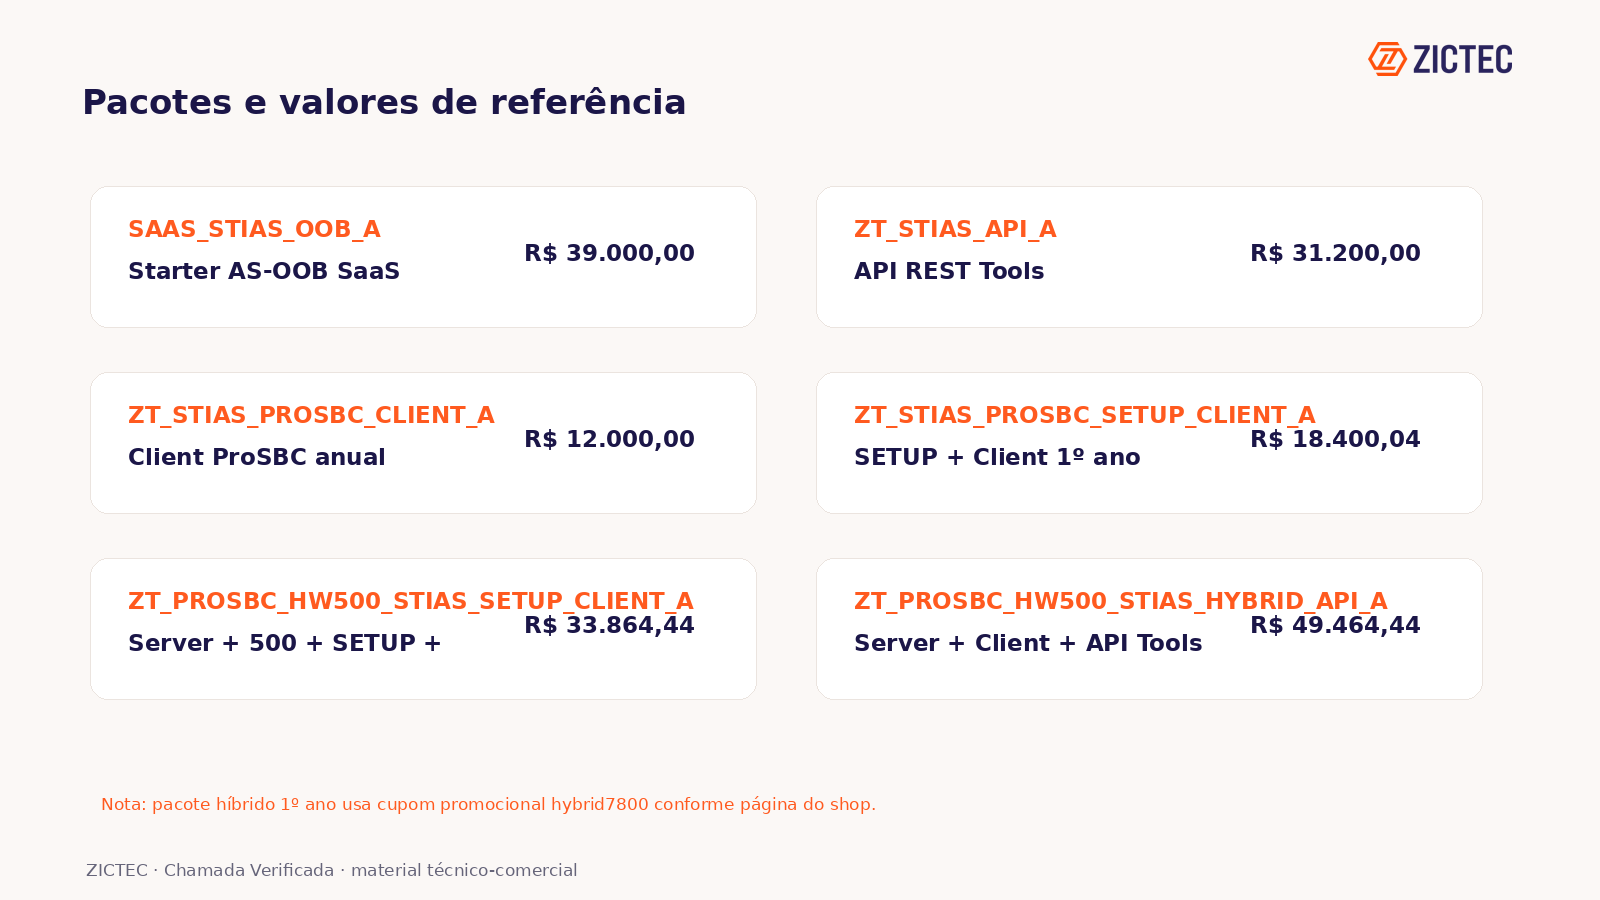
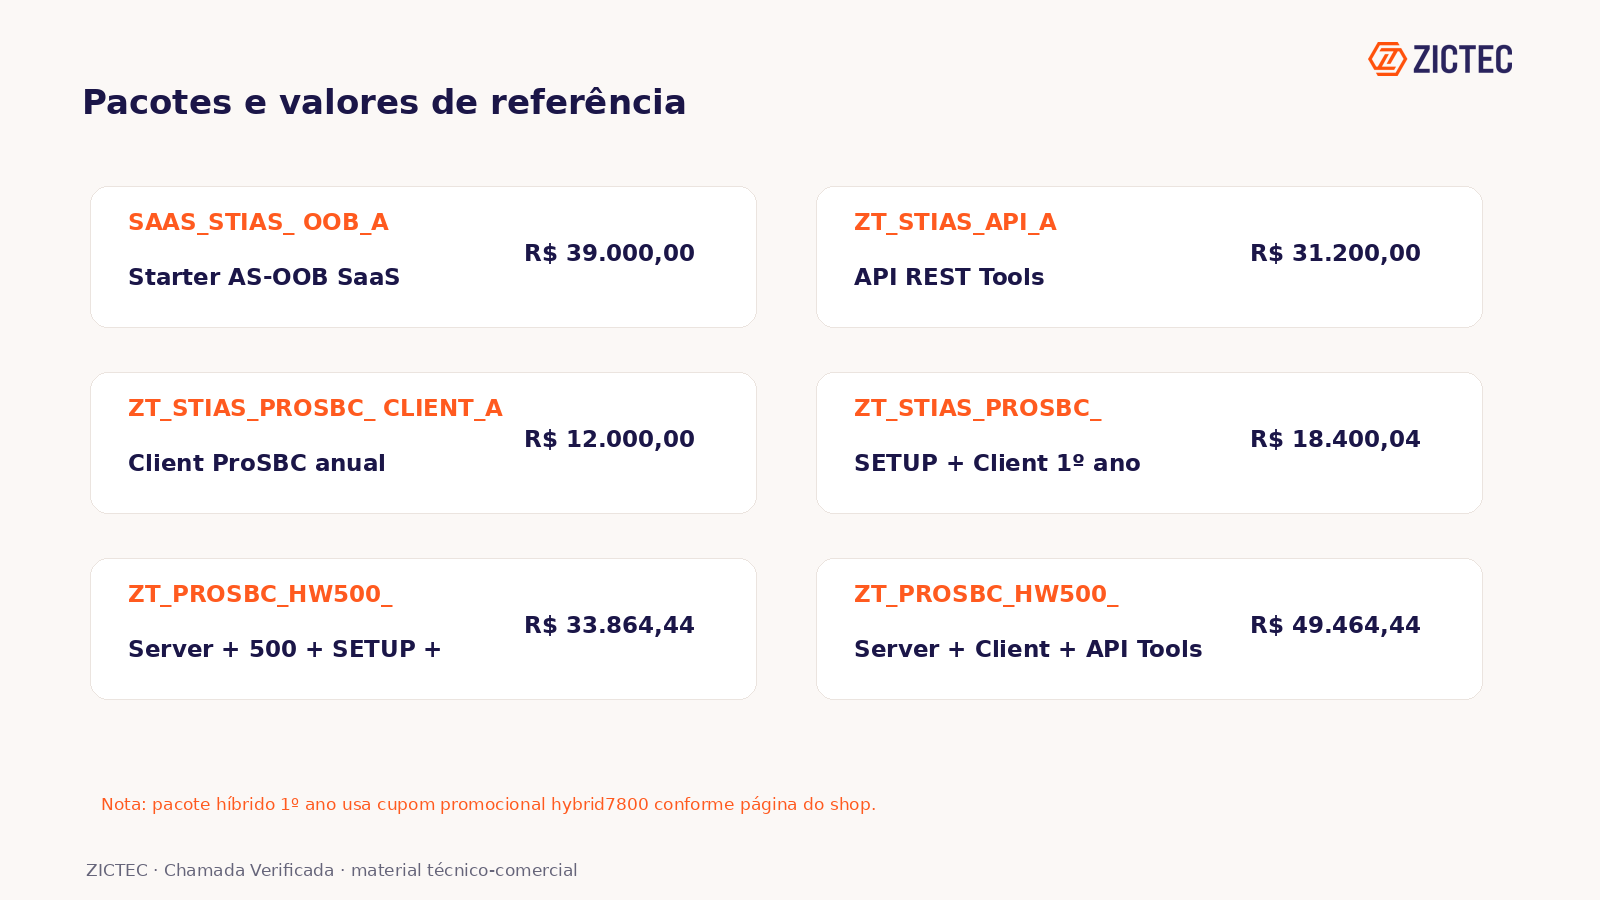
fix: improve pptx text wrapping

diff --git a/build_collateral.py b/build_collateral.py
@@ -245,6 +245,8 @@ def add_bg(slide, color=BG):
 def add_text(slide, text, x, y, w, h, size=18, color=INK, bold=False, align=PP_ALIGN.LEFT, font='Aptos', valign=MSO_ANCHOR.TOP):
     box = slide.shapes.add_textbox(Inches(x), Inches(y), Inches(w), Inches(h))
     box.text_frame.clear()
+    box.text_frame.word_wrap = True
+    box.text_frame.auto_size = MSO_AUTO_SIZE.TEXT_TO_FIT_SHAPE
     box.text_frame.margin_left = Inches(0.02)
     box.text_frame.margin_right = Inches(0.02)
     box.text_frame.margin_top = Inches(0.02)
@@ -259,6 +261,33 @@ def add_text(slide, text, x, y, w, h, size=18, color=INK, bold=False, align=PP_A
     run.font.name = font
     run.font.color.rgb = color
     return box
+
+
+def break_sku(text):
+    """Manual line-breaks for long SKUs; PowerPoint often won't wrap underscores cleanly."""
+    breaks = {
+        'ZT_STIAS_PROSBC_SETUP_CLIENT_A': 'ZT_STIAS_PROSBC_\nSETUP_CLIENT_A',
+        'ZT_PROSBC_HW500_STIAS_SETUP_CLIENT_A': 'ZT_PROSBC_HW500_\nSTIAS_SETUP_CLIENT_A',
+        'ZT_PROSBC_HW500_STIAS_HYBRID_API_A': 'ZT_PROSBC_HW500_\nSTIAS_HYBRID_API_A',
+        'ZT_STIAS_PROSBC_CLIENT_A': 'ZT_STIAS_PROSBC_\nCLIENT_A',
+        'ZT_STIAS_HYBRID_BUNDLE_A': 'ZT_STIAS_HYBRID_\nBUNDLE_A',
+        'SAAS_STIAS_OOB_A': 'SAAS_STIAS_\nOOB_A',
+    }
+    return breaks.get(text, text)
+
+
+def readable(text):
+    replacements = {
+        'ZT_STIAS_PROSBC_SETUP_CLIENT_A': 'ZT_STIAS_PROSBC_\nSETUP_CLIENT_A',
+        'ZT_PROSBC_HW500_STIAS_SETUP_CLIENT_A': 'ZT_PROSBC_HW500_\nSTIAS_SETUP_CLIENT_A',
+        'ZT_PROSBC_HW500_STIAS_HYBRID_API_A': 'ZT_PROSBC_HW500_\nSTIAS_HYBRID_API_A',
+        'ZT_STIAS_PROSBC_CLIENT_A': 'ZT_STIAS_PROSBC_\nCLIENT_A',
+        'ZT_STIAS_API_A': 'ZT_STIAS_\nAPI_A',
+        'SAAS_STIAS_OOB_A': 'SAAS_STIAS_\nOOB_A',
+    }
+    for old, new in replacements.items():
+        text = text.replace(old, new)
+    return text
 
 
 def add_round_rect(slide, x, y, w, h, fill=WHITE, line=LINE, radius=MSO_SHAPE.ROUNDED_RECTANGLE):
@@ -350,11 +379,11 @@ for i, spec in enumerate(slides):
                 for r in p.runs: r.font.color.rgb=WHITE; r.font.bold=True; r.font.size=Pt(11)
         for r,row in enumerate(rows,1):
             for c,val in enumerate(row):
-                cell=table.cell(r,c); cell.text=val
+                cell=table.cell(r,c); cell.text=readable(val)
                 cell.fill.solid(); cell.fill.fore_color.rgb = SOFT if r%2==0 else WHITE
                 for p in cell.text_frame.paragraphs:
                     for run in p.runs:
-                        run.font.size=Pt(9.2); run.font.color.rgb=INK if c!=1 else ORANGE; run.font.bold=(c==1)
+                        run.font.size=Pt(8.2 if c==1 else 9.2); run.font.color.rgb=INK if c!=1 else ORANGE; run.font.bold=(c==1)
     elif 'steps' in spec:
         for j,step in enumerate(spec['steps']):
             y=1.55+j*0.92
@@ -367,8 +396,8 @@ for i, spec in enumerate(slides):
         for j,(sku,name,price) in enumerate(rows):
             x=0.75+(j%2)*6.05; y=1.55+(j//2)*1.55
             add_round_rect(slide, x, y, 5.55, 1.18, fill=WHITE, line=ORANGE if j in (3,5) else LINE)
-            add_text(slide, sku, x+0.25, y+0.18, 2.95, 0.25, 10.5, ORANGE, True)
-            add_text(slide, name, x+0.25, y+0.53, 3.15, 0.3, 12.5, NAVY, True)
+            add_text(slide, break_sku(sku), x+0.25, y+0.12, 2.95, 0.43, 8.8, ORANGE, True)
+            add_text(slide, name, x+0.25, y+0.58, 3.15, 0.34, 11.2, NAVY, True)
             add_text(slide, price, x+3.55, y+0.38, 1.65, 0.35, 15, NAVY, True, align=PP_ALIGN.RIGHT)
         add_text(slide, 'Nota: pacote híbrido 1º ano usa cupom promocional hybrid7800 conforme página do shop.', 0.78, 6.55, 11.6, 0.28, 10, ORANGE, True, align=PP_ALIGN.CENTER)
     elif i == 10:

diff --git a/qa_and_pdf_collateral.py b/qa_and_pdf_collateral.py
@@ -115,8 +115,11 @@ for s in prs.slides:
         if hasattr(sh, 'text'):
             texts.append(sh.text)
 ppt_text='\n'.join(texts)
-for kw in ['Origem Verificada','ZT_STIAS_PROSBC_SETUP_CLIENT_A','API REST Tools','Starter AS-OOB SaaS','hybrid7800']:
+ppt_norm = ppt_text.replace('\n', '').replace(' ', '')
+for kw in ['Origem Verificada','API REST Tools','Starter AS-OOB SaaS','hybrid7800']:
     assert kw in ppt_text, kw
+for kw in ['ZT_STIAS_PROSBC_SETUP_CLIENT_A', 'ZT_PROSBC_HW500_STIAS_HYBRID_API_A']:
+    assert kw.replace(' ', '') in ppt_norm, kw
 Document(str(DOCX))
 with zipfile.ZipFile(PPTX) as z:
     assert '[Content_Types].xml' in z.namelist()